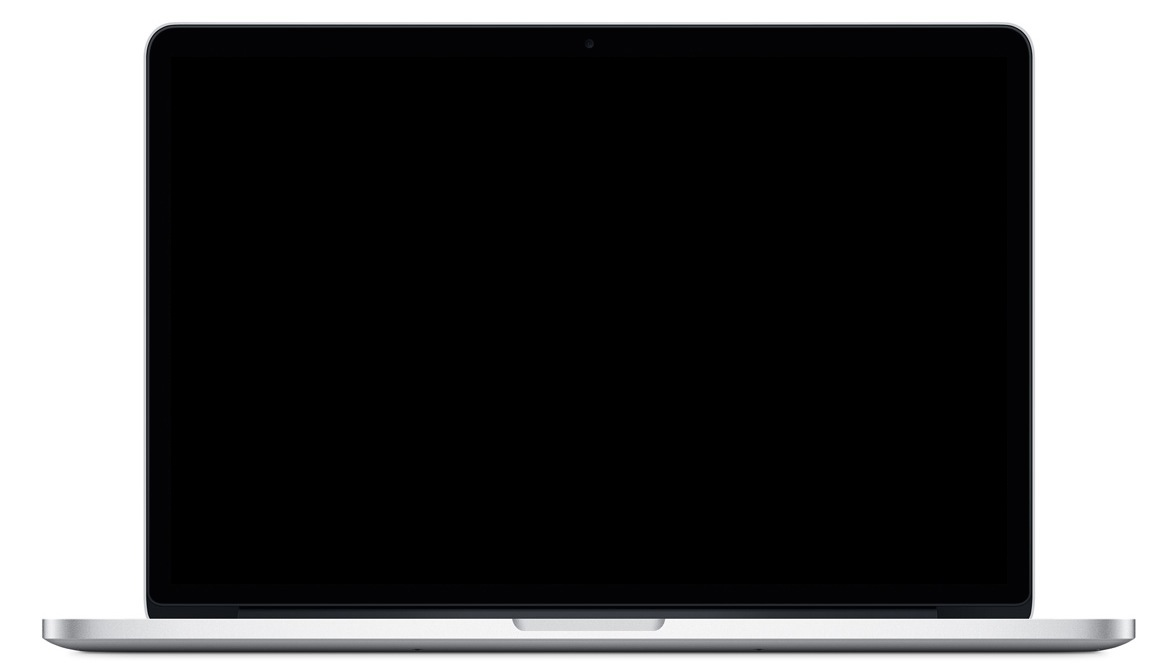
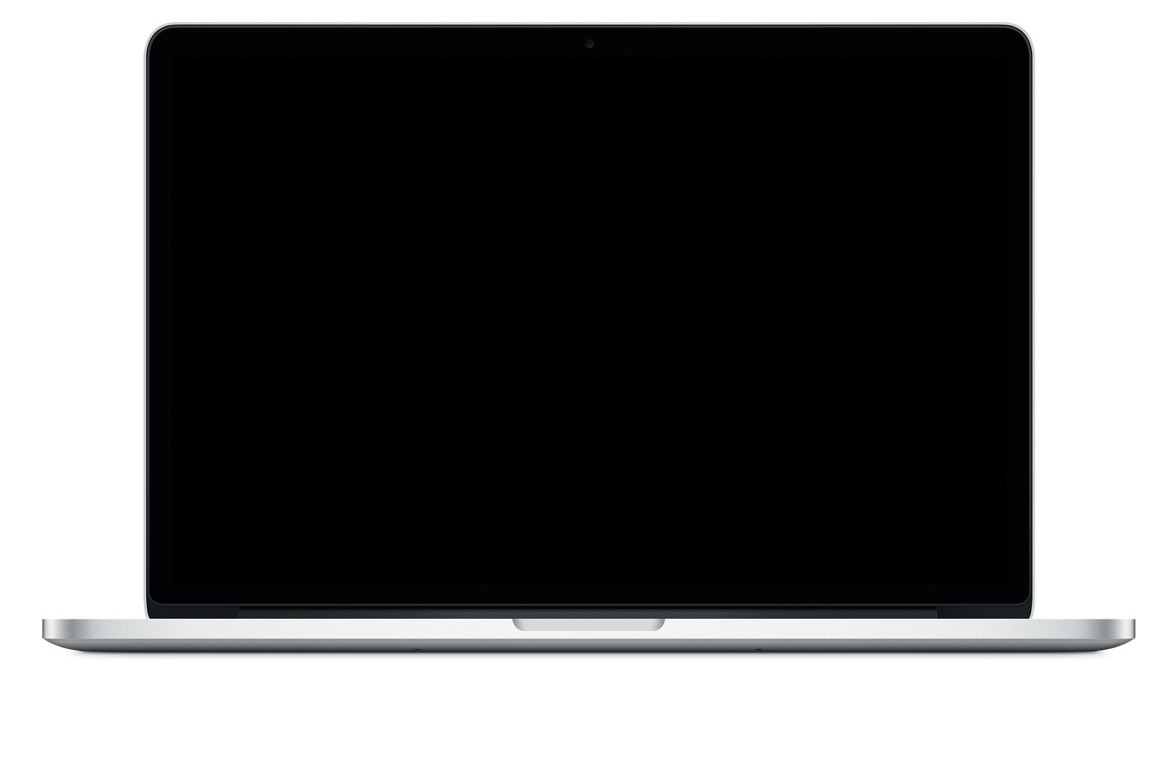
background fixed. need text wrap in card

Changed region(s): [[0.0307, 0.7808, 0.9838, 0.991], [0.123, 0.03, 0.8915, 0.0601]]

diff --git a/assets/style.css b/assets/style.css
@@ -5,8 +5,32 @@
 
 .back{
   background-image: url("macbook.jpg");
-  background-size: 75vw;
-  background-size: 100vh;
-  background-size: cover;
+  background-size: contain;
   background-repeat: no-repeat;
+  height: 115vh;
+  background-position: center;
+}
+.carousel-control-prev-icon,
+.carousel-control-next-icon {
+  height: 100px;
+  width: 100px;
+  outline: black;
+  background-size: 100%, 100%;
+  border-radius: 50%;
+  background-image: none;
+}
+.carousel-control-next-icon:after
+{
+  content: '>';
+  font-size: 55px;
+  color:grey;
+}
+
+.carousel-control-prev-icon:after {
+  content: '<';
+  font-size: 55px;
+  color:grey;
+}
+.wrap-text{
+  word-wrap: break-word;
 }

diff --git a/app/models/Song.js b/app/models/Song.js
@@ -12,7 +12,7 @@ export default class Song {
     getTemplate(i) {
         return `
     <div class="carousel-item ${!i ? 'active' : ''}">
-        <div class=" card d-flex flex-column align-items-center justify-content-center w-100">        
+        <div class=" card d-flex flex-column align-items-center justify-content-center w-100 wrap-text">        
             <img class="card-img-top" src="${this.albumArt}" alt="First slide">
             <h5 class="card-title">${this.title}</h5>
             <p class="card-text">${this.artist}</p>

diff --git a/app/components/Itunes/itunes-controller.js b/app/components/Itunes/itunes-controller.js
@@ -9,7 +9,7 @@ function drawSongs() {
   //step 2 finish this function
   let songs = itunesService.Songs
   let template = `
-  <div id="carouselExampleIndicators" class="carousel slide" data-ride="carousel" data-interval="false">
+  <div id="carouselExampleIndicators" class="carousel-fade carousel" data-ride="carousel" data-interval="false">
     <div class="carousel-inner">
   `
   for (let i = 0; i < songs.length; i++) {

diff --git a/index.html b/index.html
@@ -18,12 +18,6 @@
             <h1>iToons</h1>
         </div>
     </div>
-
-
-
-
-
-
     <form class="form-inline row" onsubmit="app.controllers.itunesCtrl.getMusic(event)">
         <!--DO NOT MODIFY THE ID OR ONCLICK ATTRIBUTES IN THIS FORM-->
         <div class="col form-group d-flex justify-content-center mt-4 mb-4">
